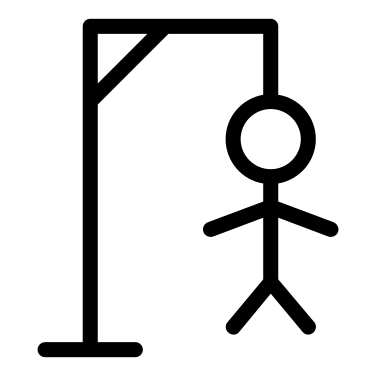
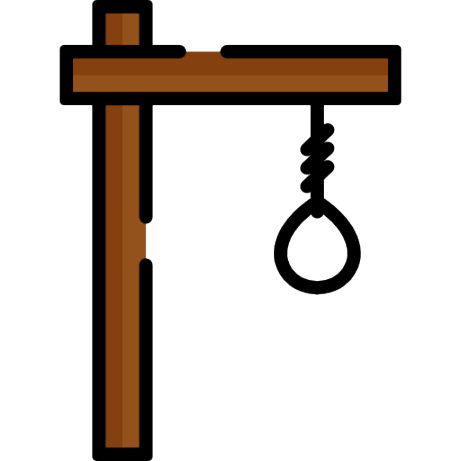
aggiustata grafica game e piccoli feat

Changed region(s): [[0.0878, 0.0, 0.9069, 1.0]]

diff --git a/client/game/src/views/HomePage.vue b/client/game/src/views/HomePage.vue
@@ -11,6 +11,7 @@ const games = [
     href: "quiz",
     imageSrc: "quiz.png",
     imageAlt: "quiz word icon",
+    bg: "bg-gray-100",
   },
   {
     id: 2,
@@ -18,36 +19,76 @@ const games = [
     href: "hangman",
     imageSrc: "hangman.png",
     imageAlt: "hangman game icon",
+    bg: "bg-gray-100",
   },
   {
     id: 3,
-    name: "Funny Videos",
-    href: "videos",
-    imageSrc: "https://pixy.org/src/80/806433.jpg",
-    imageAlt: "funny video img",
+    name: "Offered services",
+    href: "services",
+    imageSrc:
+      //"https://cdn-icons-png.flaticon.com/512/3439/3439283.png",
+      "services.png",
+    imageAlt: "handshake img",
+    bg: "bg-blue-100",
   },
   {
     id: 4,
-    name: "Interesting Facts",
-    href: "facts",
-    imageSrc: "https://cdn-icons-png.flaticon.com/512/5361/5361003.png",
-    imageAlt: "interesting facts img",
+    name: "Create your account",
+    href: "http://localhost:3000/register",
+    imageSrc:
+      //"https://icons.veryicon.com/png/o/education-technology/online-school-applet/invite-friends-6.png",
+      "register.png",
+      imageAlt: "new user img",
+    bg: "bg-blue-100",
   },
   {
     id: 5,
-    name: "Memory",
-    href: "memory",
+    name: "Interesting Facts",
+    href: "facts",
     imageSrc:
-      "https://image.api.playstation.com/vulcan/ap/rnd/202007/0210/1hTcaL0ZROBNuObezTudW9xx.png",
-    imageAlt: "memory img",
+      //"https://cdn-icons-png.flaticon.com/512/5361/5361003.png",
+      "interest.png",
+    imageAlt: "interesting facts img",
+    bg: "bg-gray-100",
   },
   {
     id: 6,
+    name: "Memory",
+    href: "memory",
+    imageSrc:
+      //"https://image.api.playstation.com/vulcan/ap/rnd/202007/0210/1hTcaL0ZROBNuObezTudW9xx.png",
+      "memory.png",
+    imageAlt: "memory img",
+    bg: "bg-gray-100",
+  },
+  {
+    id: 7,
     name: "Info pet",
     href: "infopet",
     imageSrc:
-      "infopet.jpg",
+      "infopet.png",
     imageAlt: "infopet img",
+    bg: "bg-gray-100",
+  },
+  {
+    id: 8,
+    name: "e-commerce",
+    href: "http://localhost:3000/compra",
+    imageSrc:
+      //"https://cdn-icons-png.flaticon.com/512/46/46297.png",
+      "shop.png",
+    imageAlt: "ecommerce img",
+    bg: "bg-blue-100",
+  },
+  {
+    id: 9,
+    name: "Funny Videos",
+    href: "videos",
+    imageSrc: 
+      //"https://pixy.org/src/80/806433.jpg",
+      "funny.png",
+    imageAlt: "funny video img",
+    bg: "bg-gray-100",
   },
 ];
 
@@ -92,12 +133,12 @@ const advs = [
 </script>
 
 <template>
-  <div class="flex xl:flex-row xl:h-screen flex-col" style="flex: 1 1 auto" data-theme="lemonade">
+  <div class="flex xl:flex-row flex-col" style="flex: 1 1 auto" data-theme="lemonade">
 
     <!-- adv left -->
-    <div class="xl:flex xl:flex-col xl:h-full xl:w-20 flex-row text-gray-600 font-semibold hidden hidden" style="flex: 1 1 auto; min-width: 20rem;">
+    <div class="xl:flex xl:flex-col xl:h-full xl:w-20 flex-row text-gray-600 font-semibold hidden" style="flex: 1 1 auto; min-width: 10rem;">
       <a :key="advs[left].name1" :href="advs[left].href"
-        :class="[advs[left].bg, 'hover:bg-gray-700 hover:text-white py-8 pb-0 rounded-md text-md leading-relaxed text-center']"
+        :class="[advs[left].bg, 'hover:bg-gray-700 hover:text-white py-20 rounded-md text-md leading-relaxed text-center']"
         :style="[advs[left].height, 'border-radius:0', 'flex-grow:1']"
         :aria-current="undefined">
         {{ advs[left].name1 }}<br>{{ advs[left].name2 }}
@@ -108,10 +149,10 @@ const advs = [
     <div class="mx-auto max-w-2xl py-4 px-4 sm:py-8 sm:px-6 xl:max-w-7xl xl:px-8">
       <div class="py-4 pl-3 font-semibold normal-case text-xl">GAMES</div>
 
-      <div class="grid grid-cols-3">
+      <div class="grid grid-cols-1 md:grid-cols-2 xl:grid-cols-3">
         <a v-for="game in games" :key="game.id" :href="game.href" class="card">
           <div
-            class="card-body bg-gray-100"
+            :class="[game.bg, 'card-body']"
             style="padding: 2rem; margin: 1rem"
           >
             <p class="card-title hidden">{{ game.name }}</p>
@@ -126,9 +167,9 @@ const advs = [
     </div>
 
     <!-- adv right -->
-    <div class="flex xl:flex-col xl:h-full xl:w-20 flex-row font-semibold text-gray-600 " style="flex: 1 1 auto; min-width: 20rem;" >
+    <div class="flex xl:flex-col xl:h-full xl:w-20 flex-row font-semibold text-gray-600 " style="flex: 1 1 auto; min-width: 10rem;" >
       <a :key="advs[right].name1" :href="advs[right].href"
-        :class="[advs[right].bg, 'hover:bg-gray-700 hover:text-white py-8 pb-0 rounded-md text-md leading-relaxed text-center']"
+        :class="[advs[right].bg, 'hover:bg-gray-700 hover:text-white py-20 rounded-md text-md leading-relaxed text-center']"
         :style="[advs[right].height, 'border-radius:0', 'flex-grow:1']"
         :aria-current="undefined">
         {{ advs[right].name1 }}<br>{{ advs[right].name2 }}

diff --git a/client/game/src/components/InfoPet.vue b/client/game/src/components/InfoPet.vue
@@ -89,8 +89,8 @@ onMounted(updateVideo);
 <template>
   <div id="useful-info" class="my-auto">
     <!-- left arrow -->
-    <div class="pt-2 flex">
-      <div class="place-self-center flex-none justify-left" @click="prev">
+    <div class="flex">
+      <div class="btn place-self-center p-0 center flex-none justify-left bg-transparent border-none hover:bg-transparent" @click="prev">
         <svg
           xmlns="http://www.w3.org/2000/svg"
           viewBox="0 0 24 24"
@@ -120,7 +120,7 @@ onMounted(updateVideo);
         </a>
       </div>
       <!-- rigth arrow -->
-      <div class="place-self-center flex-none justify-end" @click="next()">
+      <div class="btn place-self-center p-0  flex-none justify-end bg-transparent border-none hover:bg-transparent" @click="next()">
         <svg
           xmlns="http://www.w3.org/2000/svg"
           viewBox="0 0 24 24"

diff --git a/client/game/src/router/router.js b/client/game/src/router/router.js
@@ -6,6 +6,7 @@ import FunnyVideo from "../components/FunnyVideo.vue";
 import Facts from "../components/Facts.vue";
 import Memory from "../components/Memory.vue";
 import InfoPet from "../components/InfoPet.vue"
+import Services from "../components/Services.vue"
 
 const router = createRouter({
   history: createWebHistory(import.meta.env.BASE_URL),
@@ -44,6 +45,11 @@ const router = createRouter({
       path: "/infopet",
       name: "infopet",
       component: InfoPet,
+    },
+    {
+      path: "/services",
+      name: "services",
+      component: Services,
     },
   ],
 });

diff --git a/client/game/src/components/NavBar.vue b/client/game/src/components/NavBar.vue
@@ -16,7 +16,7 @@ import {
 } from "@heroicons/vue/24/outline";
 
 const navigation = [
-  { name: "Services", href: "#", current: false },
+  { name: "Services", href: "services", current: false },
   { name: "Visit our website", href: "http://localhost:3000", current: false },
   { name: "Games", href: "http://localhost:5173", current: false },
 ];

diff --git a/client/game/src/components/Services.vue b/client/game/src/components/Services.vue
@@ -1,0 +1,9 @@
+<template>
+    <div class="py-4 pl-3">
+      <h1 class="font-semibold normal-case text-xl">Offered Services:</h1>
+      <ul class="list-disc">
+        <li><a></a></li>
+        ...
+      </ul>
+    </div>
+  </template>
